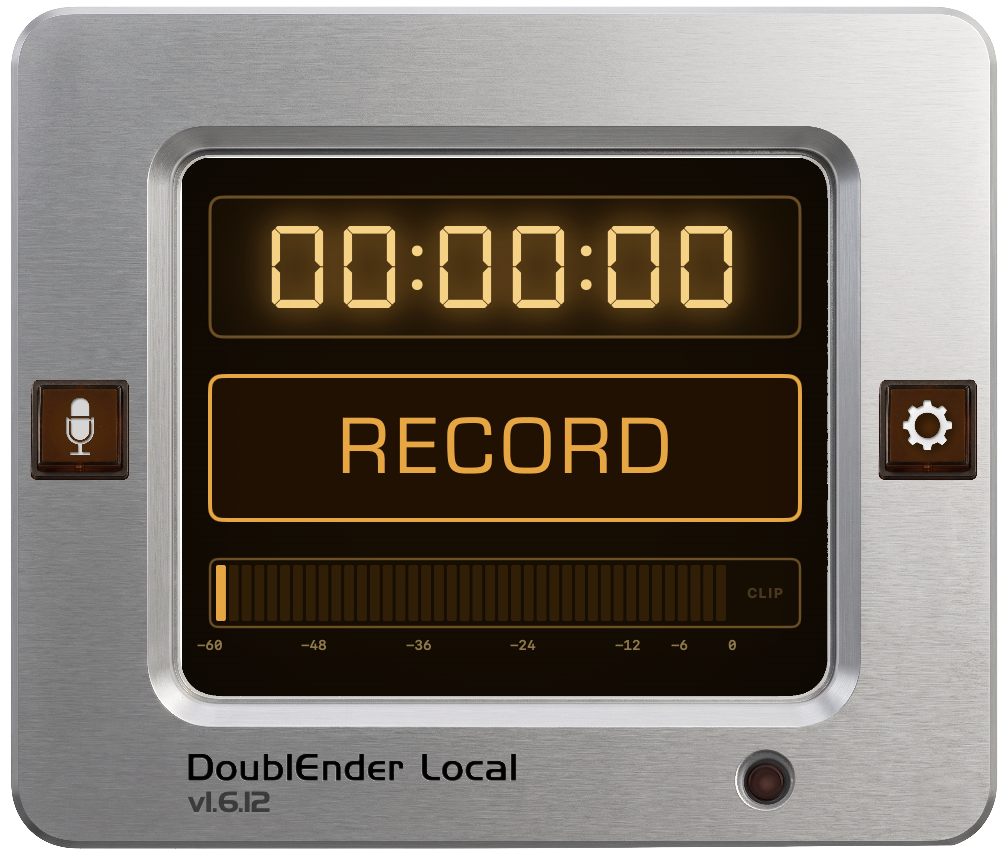
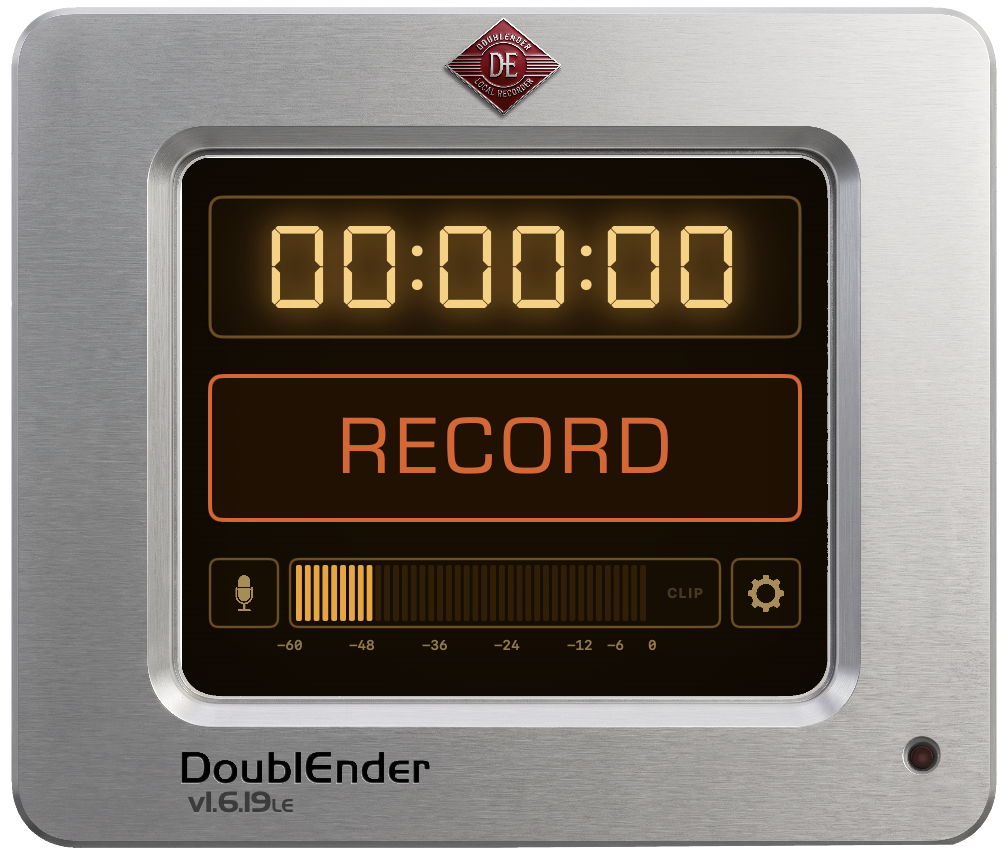
Landing page: amber palette, new screenshots, step 5 copy fix
- Replace cool/grey accent palette with warm amber:
  #F5A623 primary, #C03520 action, #0D0800 background
- Drop --green; remap all uses (h2 headers, code, spec labels,
  hover states, border-left accent) to amber / action / muted
- Replace both screenshots with current UI (idle + recording)
- Step 5: 'Hit … turns red' → 'Click … fills deep orange-red'

diff --git a/docs/index.html b/docs/index.html
@@ -15,16 +15,16 @@
   <style>
     /* ── Design tokens — match app viewport palette ── */
     :root {
-      --black:     #060606;
-      --dark:      #0d0d0d;
-      --panel:     #131313;
-      --mid:       #1a1a1a;
-      --amber:     #FFA500;
-      --amber-lt:  #FFB733;
-      --green:     #7FBF7F;
-      --light:     #c8c8c8;
-      --muted:     #585858;
-      --border:    rgba(127, 191, 127, 0.18);
+      --black:     #0D0800;
+      --dark:      #0D0800;
+      --panel:     #130900;
+      --mid:       #1A0D00;
+      --amber:     #F5A623;
+      --amber-lt:  #F7BC55;
+      --action:    #C03520;
+      --light:     #CEC0AA;
+      --muted:     #6B5C44;
+      --border:    rgba(245, 166, 35, 0.15);
       --font-disp: 'Rajdhani', 'Eurostile', 'Arial Narrow', sans-serif;
       --font-ui:   'Barlow Condensed', 'Arial Narrow', sans-serif;
       --font-body: 'Barlow', Arial, sans-serif;
@@ -168,7 +168,7 @@
       padding: 12px 16px;
       background: var(--panel);
       border: 1px solid var(--border);
-      border-left: 2px solid var(--green);
+      border-left: 2px solid var(--action);
       font-size: 0.88rem;
       color: var(--light);
       line-height: 1.55;
@@ -205,7 +205,7 @@
       color: var(--light);
       border: 1px solid var(--border);
     }
-    .btn-secondary:hover { border-color: var(--green); color: var(--green); }
+    .btn-secondary:hover { border-color: var(--amber); color: var(--amber); }
 
     /* ── Pinstripe divider ── */
 
@@ -227,7 +227,7 @@
       font-weight: 700;
       letter-spacing: 0.18em;
       text-transform: uppercase;
-      color: var(--green);
+      color: var(--amber);
       margin-bottom: 20px;
       padding-bottom: 8px;
       border-bottom: 1px solid var(--border);
@@ -281,8 +281,8 @@
       border-radius: 1px;
       font-size: 0.87em;
       font-family: ui-monospace, 'SF Mono', Menlo, Consolas, monospace;
-      color: var(--green);
-      border: 1px solid rgba(127, 191, 127, 0.22);
+      color: var(--amber-lt);
+      border: 1px solid rgba(245, 166, 35, 0.22);
     }
 
     /* ── Screenshots ── */
@@ -297,7 +297,7 @@
       font-weight: 700;
       letter-spacing: 0.18em;
       text-transform: uppercase;
-      color: var(--green);
+      color: var(--amber);
       margin-bottom: 20px;
       padding-bottom: 8px;
       border-bottom: 1px solid var(--border);
@@ -368,7 +368,7 @@
       font-weight: 600;
       letter-spacing: 0.12em;
       text-transform: uppercase;
-      color: var(--green);
+      color: var(--muted);
     }
 
     /* ── Footer ── */
@@ -467,7 +467,7 @@
         <li>Launch <strong>DoublEnder</strong>. The first time you record, macOS will ask for microphone access — click <em>Allow</em>.</li>
         <li>Click the mic icon to pick your input device. Speak normally and watch the level meter — aim for green, avoid red.</li>
         <li><em>Optional:</em> tap the gear icon to set a custom filename, add notes, or switch the output format to WAV.</li>
-        <li>Hit the <strong>RECORD</strong> button to start. The timer counts up and the button turns red. Hit it again to stop.</li>
+        <li>Click the <strong>RECORD</strong> button to start — the timer counts up and the button fills deep orange-red. Click it again to stop.</li>
         <li>A macOS notification confirms the save and offers <strong>Reveal in Finder</strong>. The recording lives on your <strong>Desktop</strong> as <code>DoublEnder_&lt;date&gt;.m4a</code>. Send that file to your host.</li>
       </ol>
     </section>
